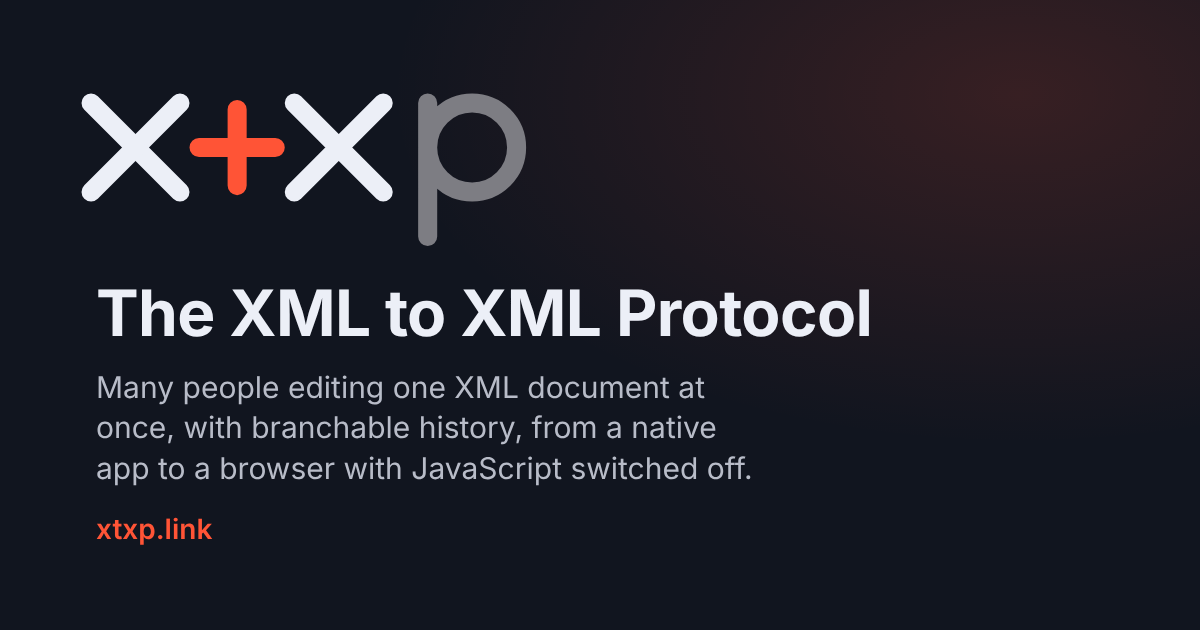
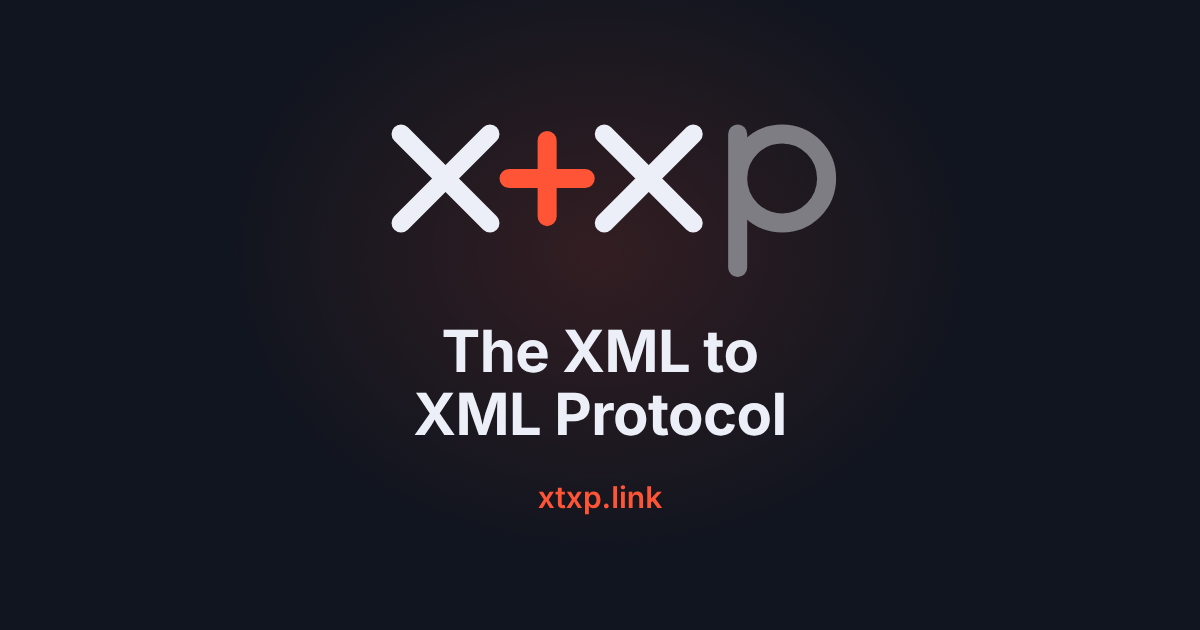
Social card: centred layout that survives Slack's square crop
Claude-Session: https://claude.ai/code/session_017s2u4WTgk1LnpXjc5g2M3v

diff --git a/scripts/social/card.html b/scripts/social/card.html
@@ -1,21 +1,21 @@
 <!doctype html>
 <html><head><meta charset="utf-8">
+<!-- Link-preview card, 1200x630. Everything sits in the centre 630x630 square,
+     because Slack crops the image to a centred square thumbnail while WhatsApp and
+     others show it whole. Render with scripts/social/render.mjs. -->
 <style>
   html,body{margin:0;width:1200px;height:630px;background:#11151f;color:#eceff7;
     font-family:"Inter","Helvetica Neue",Arial,sans-serif;}
-  .wrap{box-sizing:border-box;width:1200px;height:630px;padding:84px 96px;display:flex;flex-direction:column;justify-content:space-between;
-    background:radial-gradient(900px 500px at 85% 15%, rgba(255,84,54,.16), transparent 70%);}
-  .logo svg{width:470px;height:auto;display:block;margin-left:-24px}
-  h1{font-size:64px;line-height:1.05;margin:0 0 20px;font-weight:700;letter-spacing:-.01em}
-  p{text-wrap:balance;font-size:30px;line-height:1.35;margin:0;color:#b8bcc8;max-width:960px}
-  .url{font-size:28px;color:#ff5436;font-weight:600}
+  .wrap{box-sizing:border-box;width:1200px;height:630px;display:flex;align-items:center;justify-content:center;
+    background:radial-gradient(520px 420px at 50% 40%, rgba(255,84,54,.14), transparent 72%);}
+  .col{width:560px;display:flex;flex-direction:column;align-items:center;text-align:center;gap:34px}
+  .logo svg{width:470px;height:auto;display:block;margin-right:-34px}
+  h1{font-size:58px;line-height:1.08;margin:0;font-weight:700;letter-spacing:-.01em}
+  .url{font-size:30px;color:#ff5436;font-weight:600}
 </style></head>
-<body><div class="wrap">
+<body><div class="wrap"><div class="col">
   <div class="logo"><svg xmlns="http://www.w3.org/2000/svg" class="xtxp-logo" viewBox="-20 -20 148 54" role="img" aria-label="XTXP"><style>.xtxp-logo{--xl-x:#eceff7;--xl-t:#ff5436;--xl-p:#7d7d83}.xtxp-logo .xl-l,.xtxp-logo .xl-r{stroke:var(--xl-x)}.xtxp-logo .xl-c{stroke:var(--xl-t)}.xtxp-logo .xl-p{stroke:var(--xl-p)}.xtxp-logo .xl-ol,.xtxp-logo .xl-p{stroke-dasharray:1 2}</style><g fill="none" stroke-width="6" stroke-linecap="round" stroke-linejoin="round"><path class="xl-c" d="M-14 -14L14 14M14 -14L-14 14" stroke-width="9.9" transform="translate(32 0) rotate(45) scale(.606)"/><g class="xl-l"><path d="M14 -14L0 0L14 14"/><path class="xl-ol" pathLength="1" d="M0 0L-14 -14"/><path class="xl-ol" pathLength="1" d="M0 0L-14 14"/></g><g class="xl-r" transform="translate(64 0)"><path d="M-14 -14L0 0L-14 14"/><path class="xl-ol" pathLength="1" d="M0 0L14 -14"/><path class="xl-ol" pathLength="1" d="M0 0L14 14"/></g><path class="xl-p" pathLength="1" d="M0 -14V28M0 0A14 14 0 1 1 28 0A14 14 0 1 1 0 0" transform="translate(92 0)"/></g></svg>
 </div>
-  <div>
-    <h1>The XML to XML Protocol</h1>
-    <p>Many people editing one XML document at once, with branchable history, from a native app to a browser with JavaScript switched off.</p>
-  </div>
+  <h1>The XML to<br>XML Protocol</h1>
   <div class="url">xtxp.link</div>
-</div></body></html>
+</div></div></body></html>
